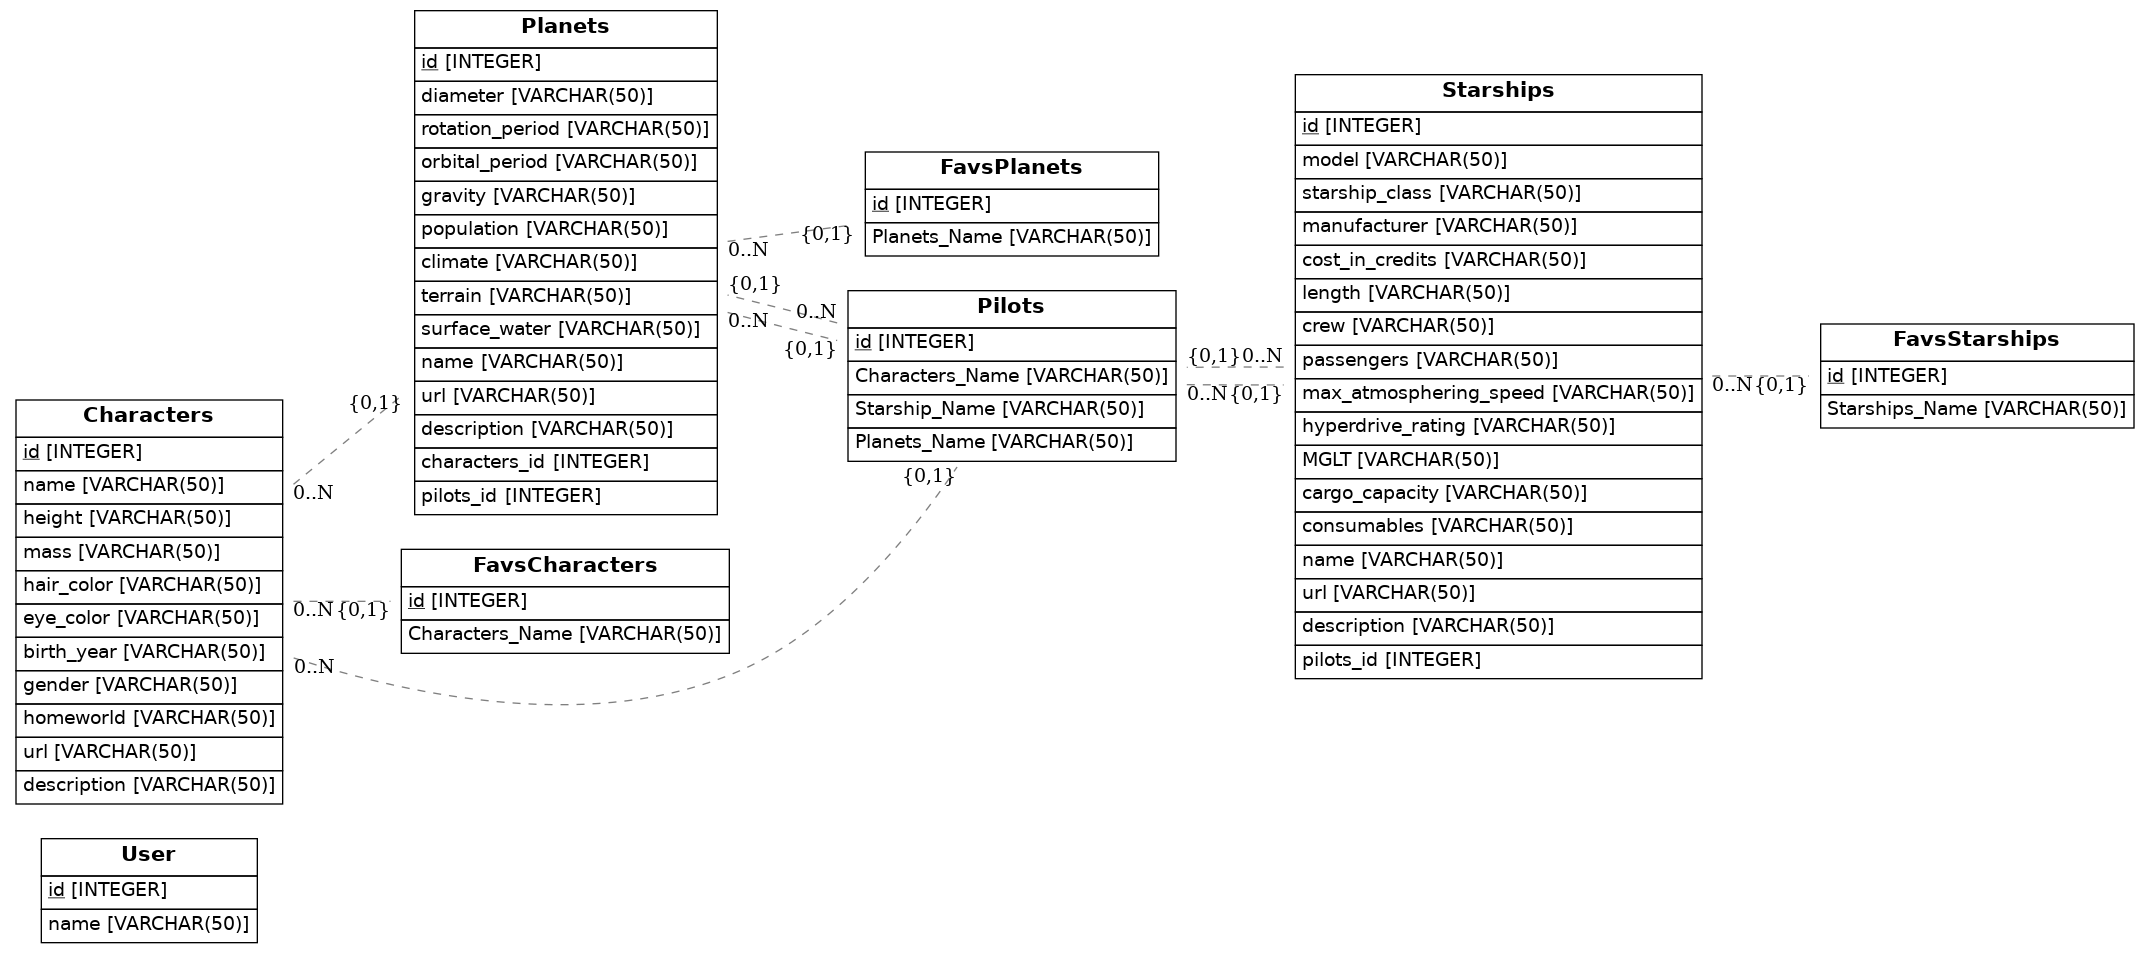
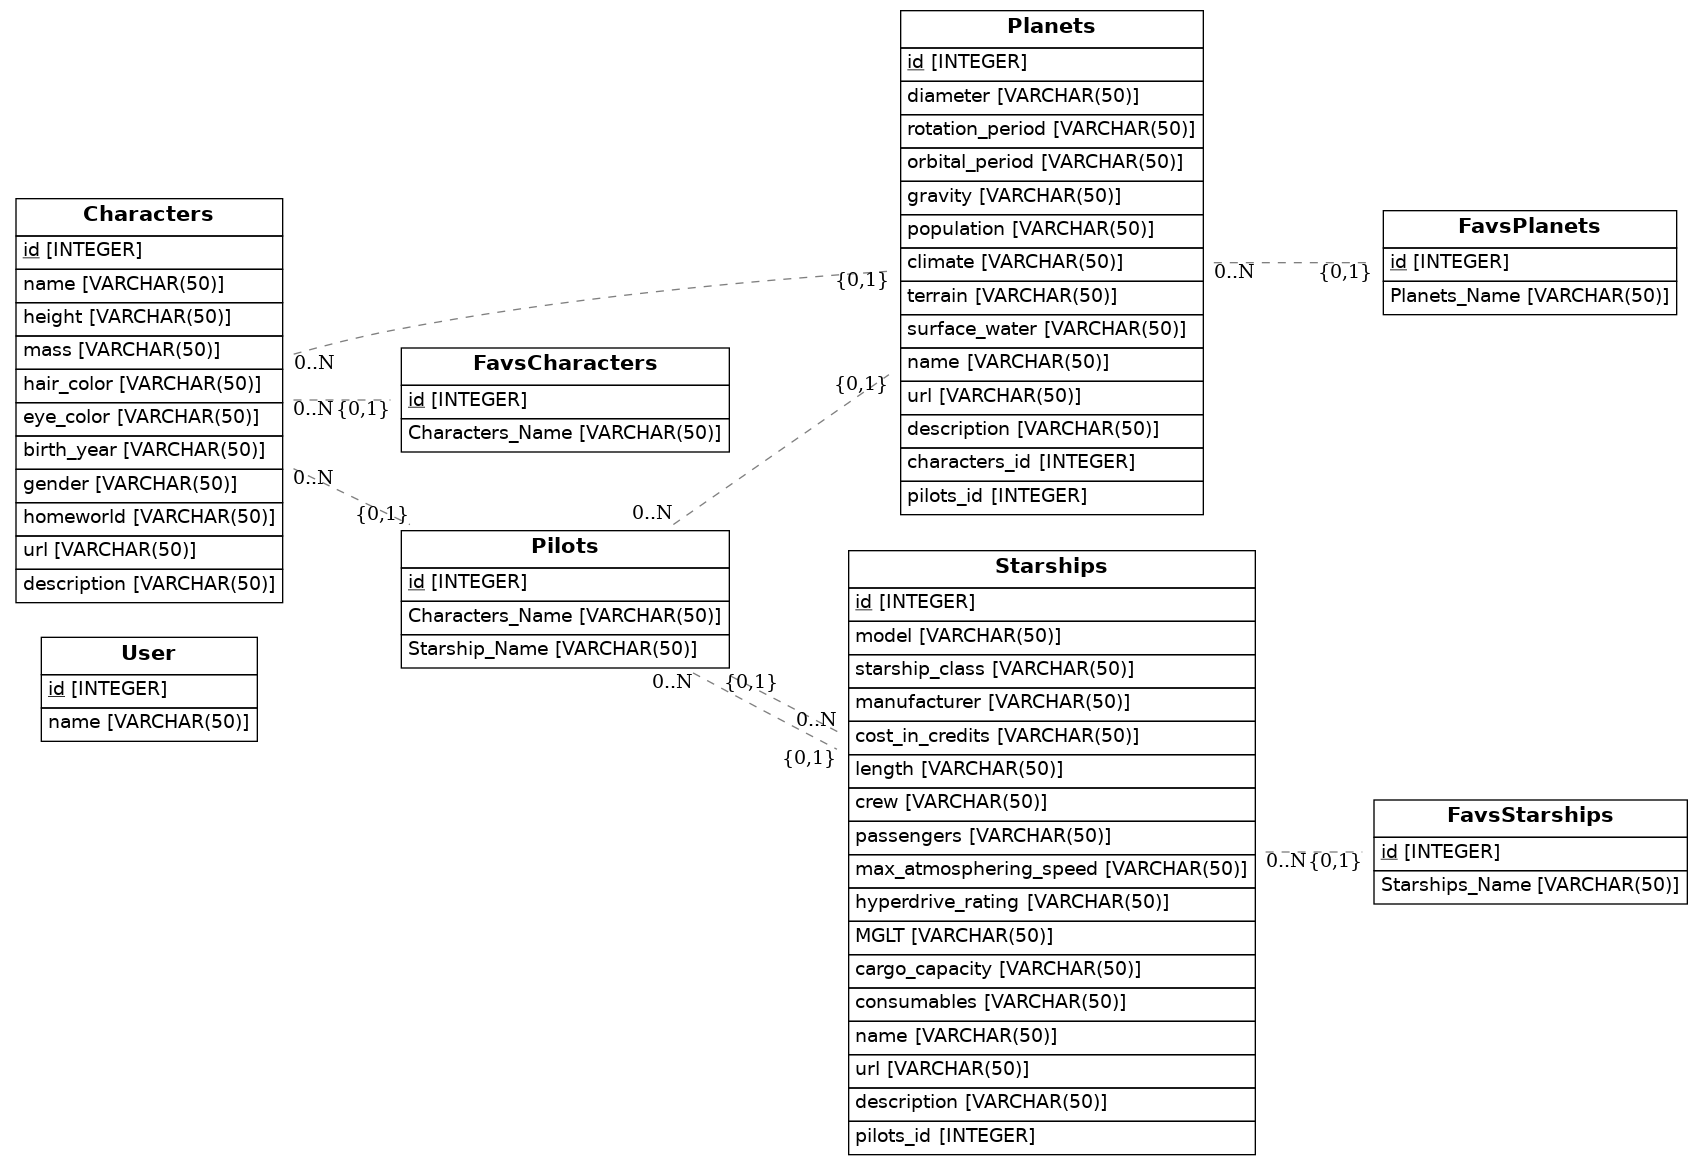
actualizacion 3

Changed region(s): [[0.0, 0.0, 0.9959, 1.0], [0.0, 0.8825, 0.1245, 1.0]]

diff --git a/src/models.py b/src/models.py
@@ -12,6 +12,12 @@ class User(Base):
     __tablename__ = 'User'
     id = Column(Integer, primary_key=True)
     name = Column(String(50), nullable=False)
+    characters_id = Column(Integer, ForeignKey('Characters.id'))
+    characters = relationship(Characters)
+    Planets_Name = Column(String(50), ForeignKey('Planets.name'))
+    Planets = relationship(Planets)
+    Starships_Name = Column(String(50), ForeignKey('Starships.name'))
+    Starships = relationship(Starships)
 
 class Characters(Base):
     __tablename__ = 'Characters'
@@ -44,7 +50,6 @@ class Planets(Base):
     characters_id = Column(Integer, ForeignKey('Characters.id'))
     characters = relationship(Characters)
     pilots_id = Column(Integer, ForeignKey('Pilots.id'))
-    
 
 class Starships(Base):
     __tablename__ = 'Starships'
@@ -66,27 +71,26 @@ class Starships(Base):
     description = Column(String(50))
     pilots_id = Column(Integer, ForeignKey('Pilots.id'))
     
-
 class FavsCharacters(Base):
     __tablename__ = 'FavsCharacters'
     id = Column(Integer, primary_key=True)
     Characters_Name = Column(String(50), ForeignKey('Characters.name'))
     Characters = relationship(Characters)
-    User = relationship(User)
+    User_id = relationship(User)
 
 class FavsPlanets(Base):
     __tablename__ = 'FavsPlanets'
     id = Column(Integer, primary_key=True)
     Planets_Name = Column(String(50), ForeignKey('Planets.name'))
     Planets = relationship(Planets)
-    User = relationship(User)
+    User_id = relationship(User)
 
 class FavsStarships(Base):
     __tablename__ = 'FavsStarships'
     id = Column(Integer, primary_key=True)
     Starships_Name = Column(String(50), ForeignKey('Starships.name'))
     Starships = relationship(Starships)
-    User = relationship(User)
+    User_id = relationship(User)
 
 class Pilots(Base):
     __tablename__ = 'Pilots'
@@ -95,8 +99,6 @@ class Pilots(Base):
     Characters = relationship(Characters)
     Starship_Name = Column(String(50), ForeignKey('Starships.id'))
     Starships = relationship(Starships)
-    Planets_Name = Column(String(50), ForeignKey('Planets.id'))
-    Planets = relationship(Planets)
 
     def to_dict(self):
         return {}
